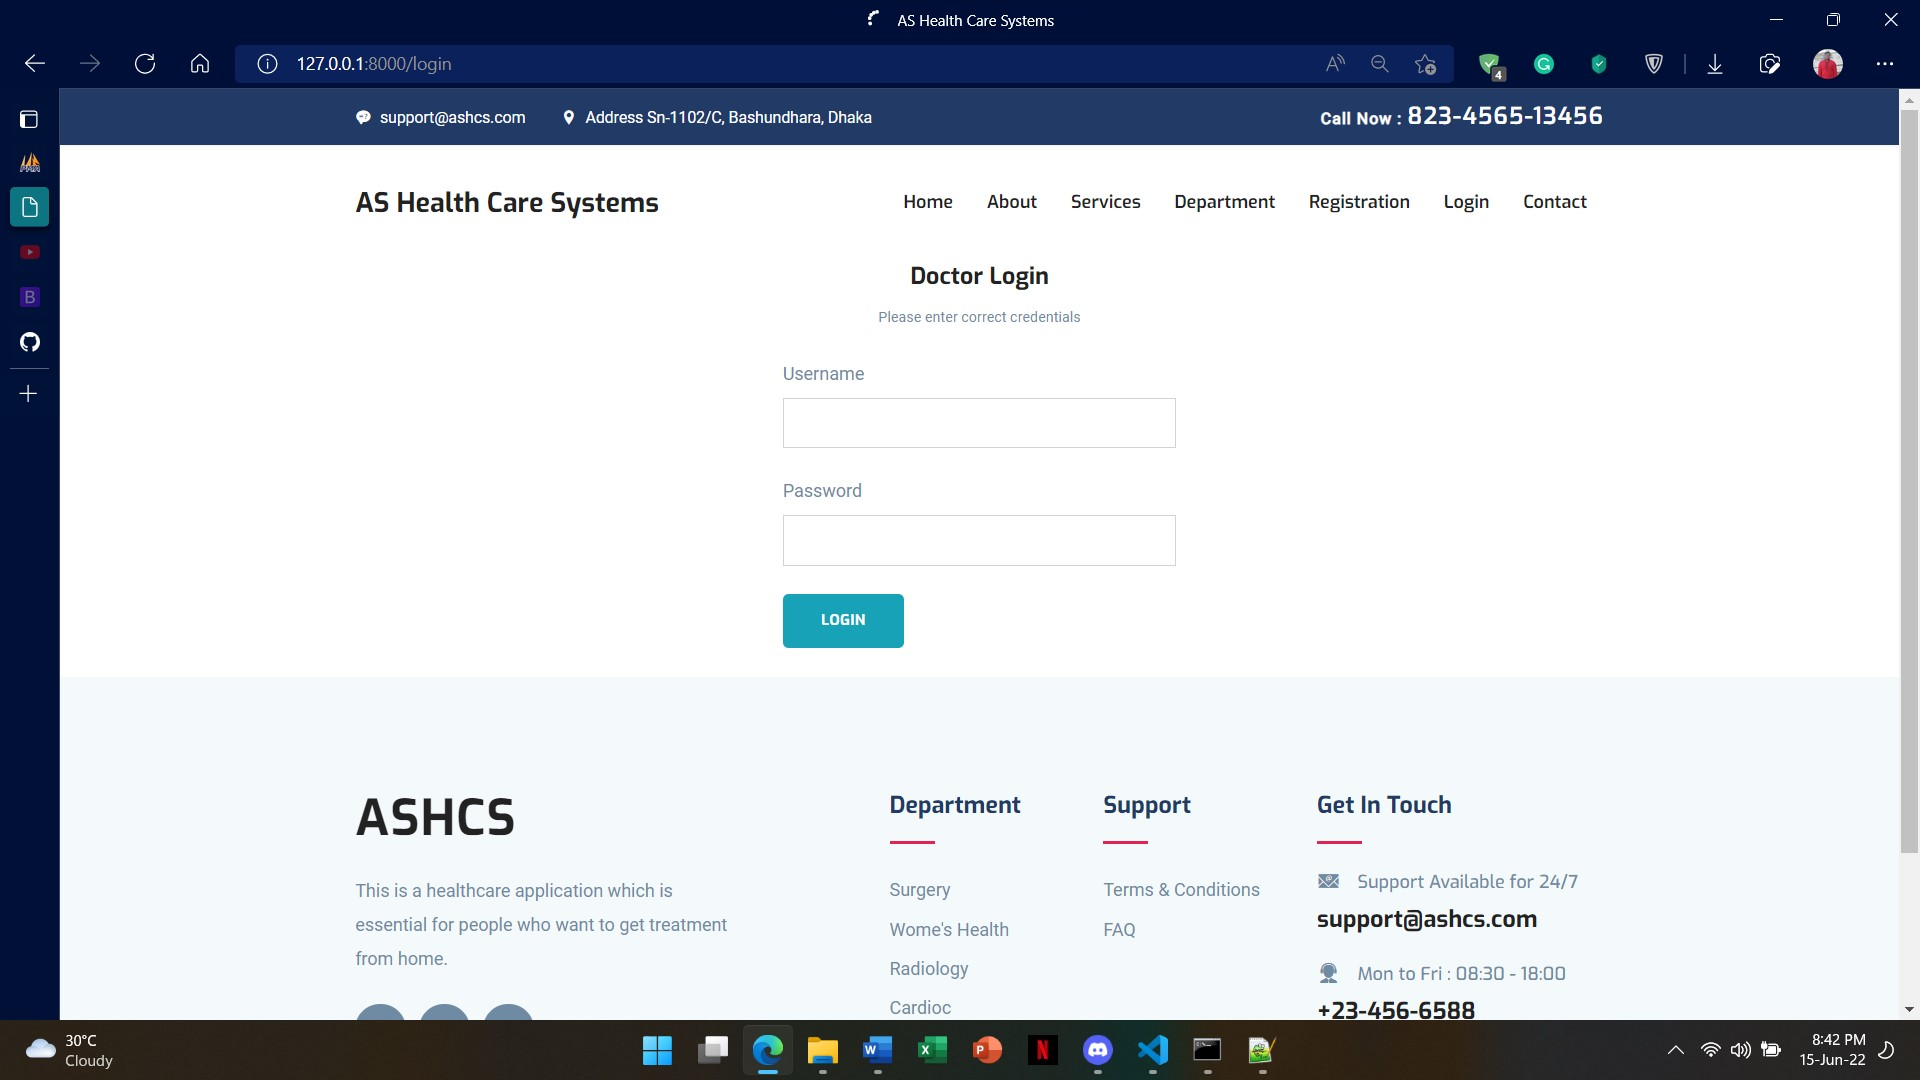
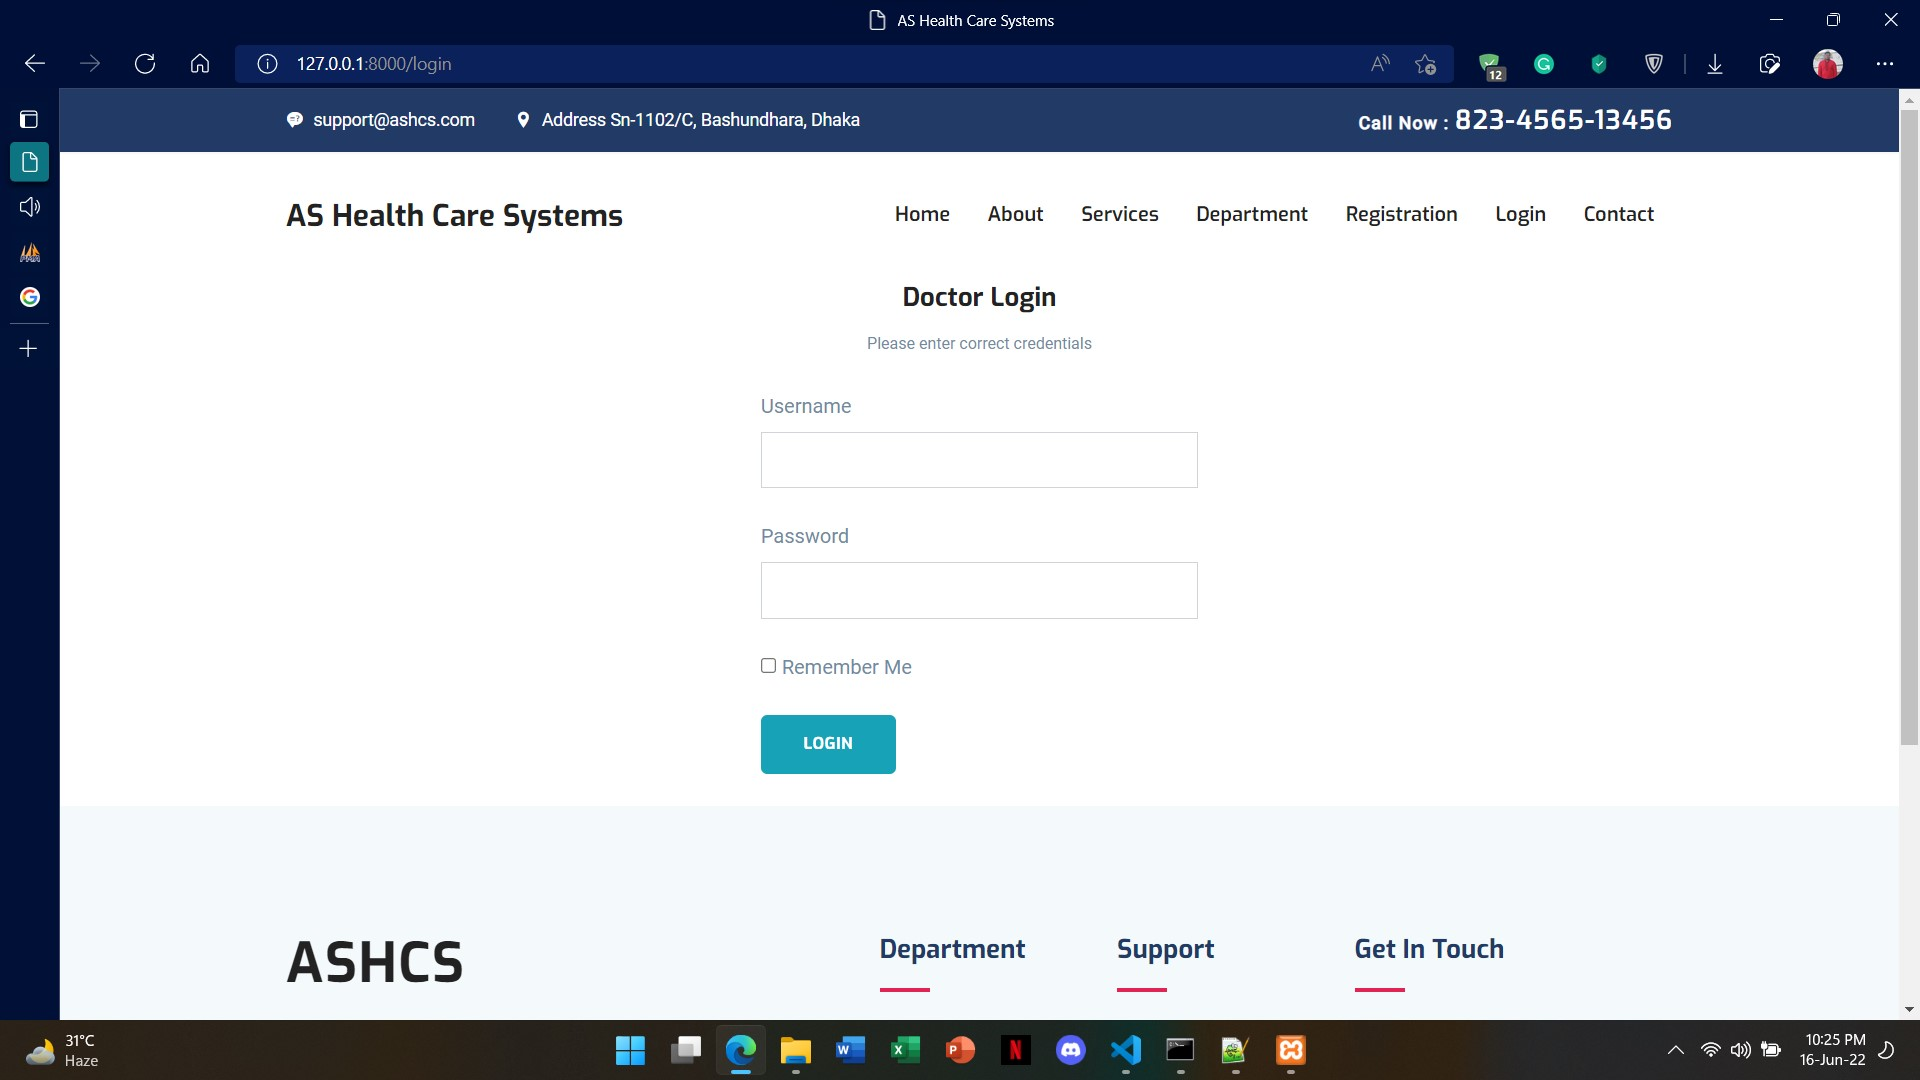
cookie added and admin login screenshot added with updated doctor login screenshot

diff --git a/APWT_Task_3.4/public/js/utility.js b/APWT_Task_3.4/public/js/utility.js
@@ -1,0 +1,8 @@
+function showPassword(){
+    var x=document.getElementById('passw').value;
+    if (x.type === "password") {
+        x.type = "text";
+    } else {
+        x.type = "password";
+    }
+}

diff --git a/APWT_Task_3.4/resources/views/Admin/login.blade.php b/APWT_Task_3.4/resources/views/Admin/login.blade.php
@@ -14,7 +14,7 @@
         </div>
         <div class="col-md-4">
             <label class="form-label">Username</label>
-            <input type="text" class="form-control" name="username"><span class="text-danger">
+            <input type="text" class="form-control" name="username" value="<?php if(isset($_COOKIE['uname'])) {echo $_COOKIE['uname'];} ?>"><span class="text-danger">
                 @error('username'){{$message}}@enderror
             </span>
         </div>
@@ -25,18 +25,22 @@
         <div class="col-md-4">
             <br>
             <label for="inputPassword4" class="form-label">Password</label>
-            <input type="password" class="form-control" name="pass" id="inputPassword4"><span class="text-danger">
+            <input type="password" class="form-control" name="pass" id="passw" value="<?php if(isset($_COOKIE['pass'])) {echo $_COOKIE['pass'];} ?>"><span class="text-danger">
                 @error('pass'){{$message}}@enderror
                 </span><br>
         </div>
-        <div class="col-md-4"><br>
+        <div class="col-md-4">
+
         </div><br>
+
         <div class="col-md-4">
             <br>
         </div>
         <div class="col-md-4">
 
-            <input type="submit" value="Login" class="btn btn-info"><span class="text-danger">
+            <input type="checkbox" name="remember" id="" class="form-select"> Remember Me <br><br>
+
+            <input type="submit" value="Login" class="btn btn-info" ><span class="text-danger">
             @if(!empty($message)){{ $message }}@endif
             </span><br>
         </div>

diff --git a/APWT_Task_3.4/resources/views/Doctor/login.blade.php b/APWT_Task_3.4/resources/views/Doctor/login.blade.php
@@ -14,7 +14,7 @@
         </div>
         <div class="col-md-4">
             <label class="form-label">Username</label>
-            <input type="text" class="form-control" name="username"><span class="text-danger">
+            <input type="text" class="form-control" name="username" value="<?php if(isset($_COOKIE['uname'])) {echo $_COOKIE['uname'];} ?>"> <span class="text-danger">
                 @error('username'){{$message}}@enderror
             </span>
         </div>
@@ -25,16 +25,20 @@
         <div class="col-md-4">
             <br>
             <label for="inputPassword4" class="form-label">Password</label>
-            <input type="password" class="form-control" name="pass" id="inputPassword4"><span class="text-danger">
+            <input type="password" class="form-control" name="pass" id="passw" value="<?php if(isset($_COOKIE['pass'])) {echo $_COOKIE['pass'];} ?>" ><span class="text-danger">
                 @error('pass'){{$message}}@enderror
                 </span><br>
         </div>
-        <div class="col-md-4"><br>
+        <div class="col-md-4">
+           
+
         </div><br>
         <div class="col-md-4">
             <br>
+
         </div>
         <div class="col-md-4">
+            <input type="checkbox" name="remember" id="" class="form-select"> Remember Me <br><br>
 
             <input type="submit" value="Login" class="btn btn-info"><span class="text-danger">
             @if(!empty($message)){{ $message }}@endif

diff --git a/APWT_Task_3.4/routes/web.php b/APWT_Task_3.4/routes/web.php
@@ -21,6 +21,8 @@ Route::get('/', [pageController::class,'home'])->name('home');
 Route::get('/services', [pageController::class,'services'])->name('services');
 Route::get('/about', [pageController::class,'about'])->name('about');
 Route::get('/departments', [pageController::class,'department'])->name('departments');
+Route::get('/contact', [pageController::class,'contact'])->name('contact');
+Route::post('/info',[pageController::class,'contactSubmitted'])->name('contactSubmitted');
 
 //Doctor Pages
 Route::get('/register', [DoctorController::class,'register'])->name('register');
@@ -29,8 +31,6 @@ Route::get('/login', [DoctorController::class,'login'])->name('login');
 Route::post('/login',[DoctorController::class,'loginRequest'])->name('login');
 Route::get('/dashboard', [DoctorController::class,'dashboard'])->name('dashboard')->middleware('ValidDoctor');
 Route::get('/logout',[DoctorController::class,'logout'])->name('logout');
-Route::get('/contact', [pageController::class,'contact'])->name('contact');
-Route::post('/info',[pageController::class,'contactSubmitted'])->name('contactSubmitted');
 Route::get('/profile',[DoctorController::class,'loadProfile'])->name('profile')->middleware('ValidDoctor');
 Route::get('/edit',[DoctorController::class,'editProfile'])->name('edit_profile')->middleware('ValidDoctor');
 Route::post('/update',[DoctorController::class,'updateProfile'])->name('updateProfile')->middleware('ValidDoctor');

diff --git a/APWT_Task_3.4/app/Http/Controllers/AdminController.php b/APWT_Task_3.4/app/Http/Controllers/AdminController.php
@@ -37,6 +37,13 @@ class AdminController extends Controller
         if($admin){
 
         $req->session()->put('admin_username',$username);
+        if($req->remember){
+            setcookie('uname',$req->username, time()+20);
+            setcookie('pass',$req->pass, time()+20);
+            return redirect()->route('admin_dashboard');
+        }
+
+
         return redirect()->route('admin_dashboard');
 
         }else{

diff --git a/APWT_Task_3.4/app/Http/Controllers/DoctorController.php b/APWT_Task_3.4/app/Http/Controllers/DoctorController.php
@@ -108,6 +108,13 @@ class DoctorController extends Controller
         if($doctor){
 
         $req->session()->put('username',$username);
+
+        if($req->remember){
+            setcookie('uname',$req->username, time()+20);
+            setcookie('pass',$req->pass, time()+20);
+            return redirect()->route('dashboard');
+        }
+
         return redirect()->route('dashboard');
 
         }else{

diff --git a/APWT_Task_3.4/resources/views/inc/header.blade.php b/APWT_Task_3.4/resources/views/inc/header.blade.php
@@ -18,6 +18,7 @@
   <link rel="stylesheet" href="plugins/slick-carousel/slick/slick.css">
   <link rel="stylesheet" href="plugins/slick-carousel/slick/slick-theme.css">
 
+
   <!-- Main Stylesheet -->
   <link rel="stylesheet" href="css/style.css">
 
